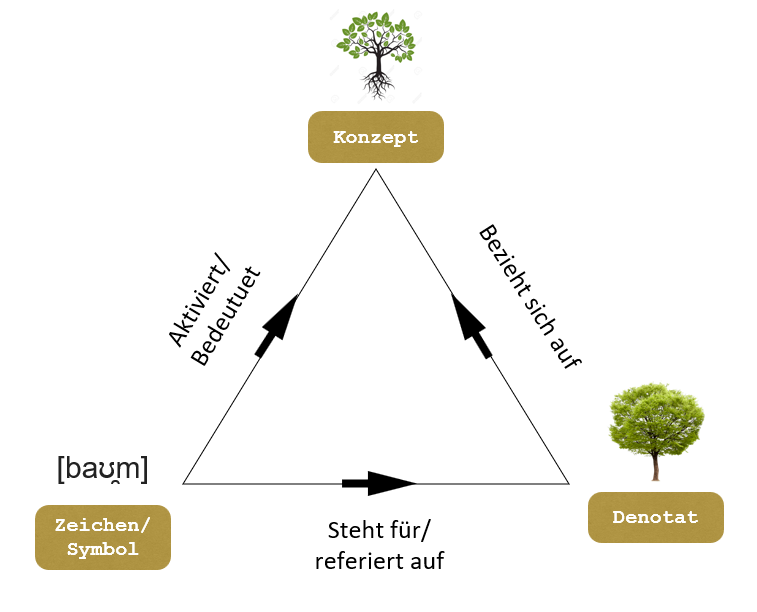
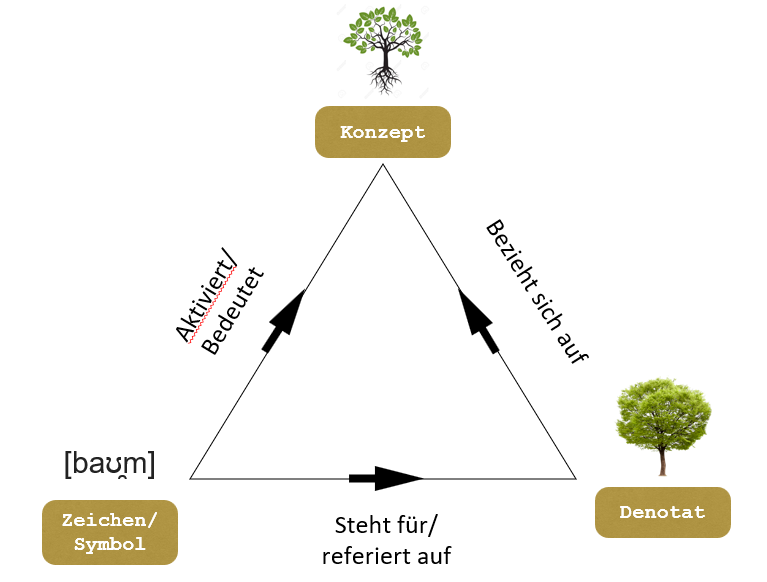
Changed index_2026 according to feedback
Implemented the discussed topics in our meeting

diff --git a/reveal.js/index_2026.html b/reveal.js/index_2026.html
@@ -46,6 +46,13 @@
 					<p id="datetime"></p>
 				</section>
 				<section>
+					<h1>Zeitplan</h1>
+					<p>10:30 - 11:00 Uhr: Ein psycholinguistisches Experiment</p>
+					<p>11:00 - 11:30 Uhr: Einführung in die Linguistik</p>
+					<p>11:30 - 12:00 Uhr: Einführung in die Psycholinguistik</p>
+					<p>12:00 - 12:30 Uhr: Hintergründe und Auswertung des Experiments</p>
+				</section>
+				<section>
 					<h1 class="r-fit-text">Teil 1: Linguistik?</h1>
 				</section>
 				<section>
@@ -60,7 +67,7 @@
 				<section>
 					<section>
 					<h2>Semantik</h2>
-					<img src="baum.png", alt="baum bezeichnungen">
+					<p class="fragment fade-down"><img src="baum.png", alt="baum bezeichnungen"></p>
 					</section>
 					<section>
 						<img src="de_Saussure.png", alt="de Saussure">
@@ -69,12 +76,7 @@
 						<img src="semiotisches_Dreieck.png", alt="semiotisches Dreieck">
 					</section>
 					<section>
-						<h3>Semantik als Bedeutungslehre</h3>
-						<p class="r-frame fragment fade-down" align="left">
-							<font size="5">
-								Die Semantik ist die Wissenschhaft von der Bedeutung <b>einfacher und komplexer sprachlicher Ausdrücke</b> für sich genommen. Sie befasst sich außerdem mit den Schnittstellen der <b>Ausdrucksbedeutung</b> zu den Ebenen der <b>Äußerungsbedeutung</b> und des <b>kommunikativen Sinns</b>.
-							</font>
-						</p>
+						<h3>Herausforderungen</h3>
 						<p class="fragment fade-left" align="left">
 						<font size="5">
 						Arbiträre Zuordnung von Zeichen zu Konzept:
@@ -93,7 +95,29 @@
 							Wie viele Sätze gibt es in einer Sprache? Unendlich viele?
 						</font>
 					</p>
+					<p class="fragment fade-down" align="left">
+						<font size="5">
+							...
+						</font>
+					</p>
 					</section>
+					<section>
+						<h3>Semantik als Bedeutungslehre</h3>
+						<p class="r-frame fragment fade-down" align="left">
+							<font size="5">
+								Die Semantik beschäftigt sich mit <b>einfachen und komplexen sprachlichen Ausdrücken</b> einerseits abstrakt in Isolation und andererseits auch in Äußerungskontexten.
+							</font>
+						</p>
+					</section>
+				</section>
+				<section>
+					<h2>Module der Sprachforschung</h2>
+					
+						<p>Semantik</p>
+						<p class="fragment grow">Pragmatik</p>
+						<p>Phonologie</p>
+						<p>Morphologie</p>
+						<p>Syntax</p>
 				</section>
 				<section>
 					<section>
@@ -115,20 +139,11 @@
 						<section>
 							<h3>Sprechakttheorie</h3>
 							<p class="fragment fade-left" align="left">
-								"Ich werde dir helfen."
-							</p>
-							<p class="fragment fade-right" align="left">
-								"Tut mir leid."
-							</p>
-							<p class="fragment fade-left" align="left">
-								"Ich bin dabei zu kochen."
+								"Wie spät ist es?"
 							</p>
 							<p class="fragment fade-right" align="left">
 								"Hiermit erkläre ich Sie zu Eheleuten."
 							</p>
-						</section>
-						<section>
-							<img src="illokution.png" alt="Illokution">
 						</section>
 						<section>
 							<h3>Konversationsmaxime</h3>
@@ -136,10 +151,10 @@
 								Umfasst keine Regeln, sondern Erwartungshaltungen, die als Grundlage der Interpretation dienen.
 							</p>
 							<p class="fragment fade-left" align="left">
-								1. Qualitätsmaxime: <i>Sage nichts, was du für falsch hälst.</i>
+								1. Qualitätsmaxime: <i>Sage nichts Falsches.</i>
 							</p>
 							<p class="fragment fade-right" align="left">
-								2. Quantitätsmaxime: <i>Gestalte deinen Beitrag so informativ wie nötig, aber nicht informativer als nötig.</i>
+								2. Quantitätsmaxime: <i>Sei so informativ wie nötig.</i>
 							</p>
 							<p class="fragment fade-left" align="left">
 								3. Relevanzmaxime: <i>Mache deine Beiträge relevant.</i>
@@ -155,6 +170,15 @@
 							<img src="maxime_solution.png" alt="Lösung Maxime">
 						</section>
 					</section>
+				</section>
+				<section>
+					<h2>Module der Sprachforschung</h2>
+					
+						<p>Semantik</p>
+						<p>Pragmatik</p>
+						<p class="fragment grow">Phonologie</p>
+						<p>Morphologie</p>
+						<p>Syntax</p>
 				</section>
 				<section>
 					<section>
@@ -185,16 +209,21 @@
 					</section>	
 				</section>
 				<section>
+					<h2>Module der Sprachforschung</h2>
+					
+						<p>Semantik</p>
+						<p>Pragmatik</p>
+						<p>Phonologie</p>
+						<p class="fragment grow">Morphologie</p>
+						<p>Syntax</p>
+				</section>
+				<section>
 					<section>
 						<h2>Morphologie</h2>
 						<p class="r-frame fragment fade-down">
 							Morphologie untersucht das kognitive Regelwerk, das mögliche von unmöglichen Wortkombinationen unterscheidet. 
 						</p>
-						<p class="fragment fade-right">*der <i>grünen</i>Traktor</p>
-						<p class="fragment fade-left">*Wir <i>isst.</i></p>
-						<p class="fragment fade-right">*Die drei Könige brachten <i>Gabungen</i>.</p>
-						<p class="fragment fade-left">*Die Pizza war äußerst <i>kostbar.</i></p>
-						<p class="fragment fade-right">Sparsam, Sparsamkeit, aber <i>*Sparkeit</i></p>
+						<p class="fragment fade-right">sparsam, Sparsamkeit, aber <i>*Sparkeit</i></p>
 					</section>
 					<section>
 						<img src="morphology.png">
@@ -204,22 +233,27 @@
 					</section>
 				</section>
 				<section>
+					<h2>Module der Sprachforschung</h2>
+					
+						<p>Semantik</p>
+						<p>Pragmatik</p>
+						<p>Phonologie</p>
+						<p>Morphologie</p>
+						<p class="fragment grow">Syntax</p>
+				</section>
+				<section>
 					<section>
 						<h2>Syntax</h2>
 						<p class="r-frame fragment fade-down">
 							Syntax untersucht das System, das bestimmt, wie Wörter zu Wortgruppen bzw. Wortgruppen zu Sätzen zusammengefügt werden können.
 						</p>
-						<p class="fragment fade-left">
-							<font size="5">
-							Nominalphrase: Der grüne Traktor/ Der große, grüne Traktor/ Der Traktor, der grün ist / *Grüne der Traktor
-							</font>
-						</p>
 						<p class="fragment fade-right">
-							<font size="5">
-							Mittelfeldvariation: 
+							<font size="5"> 
 							<p class="fragment fade-left">Lisa schickt morgen das Paket an Hans nach Lüneburg.</p>
 							<p class="fragment fade-left">Lisa schickt das Paket morgen an Hans nach Lüneburg.</p>
 							<p class="fragment fade-left">Lisa schickt morgen nach Lüneburg das Paket an Hans.</p>
+							<p class="fragment fade-left">*Lisa schickt morgen nach Lüneburg das Paket Hans an.</p>
+							<p class="fragment fade-left">*Lisa schicken morgen nach Lüneburg das Paket an Hans.</p>
 							</font>	
 						</p>
 						</section>
